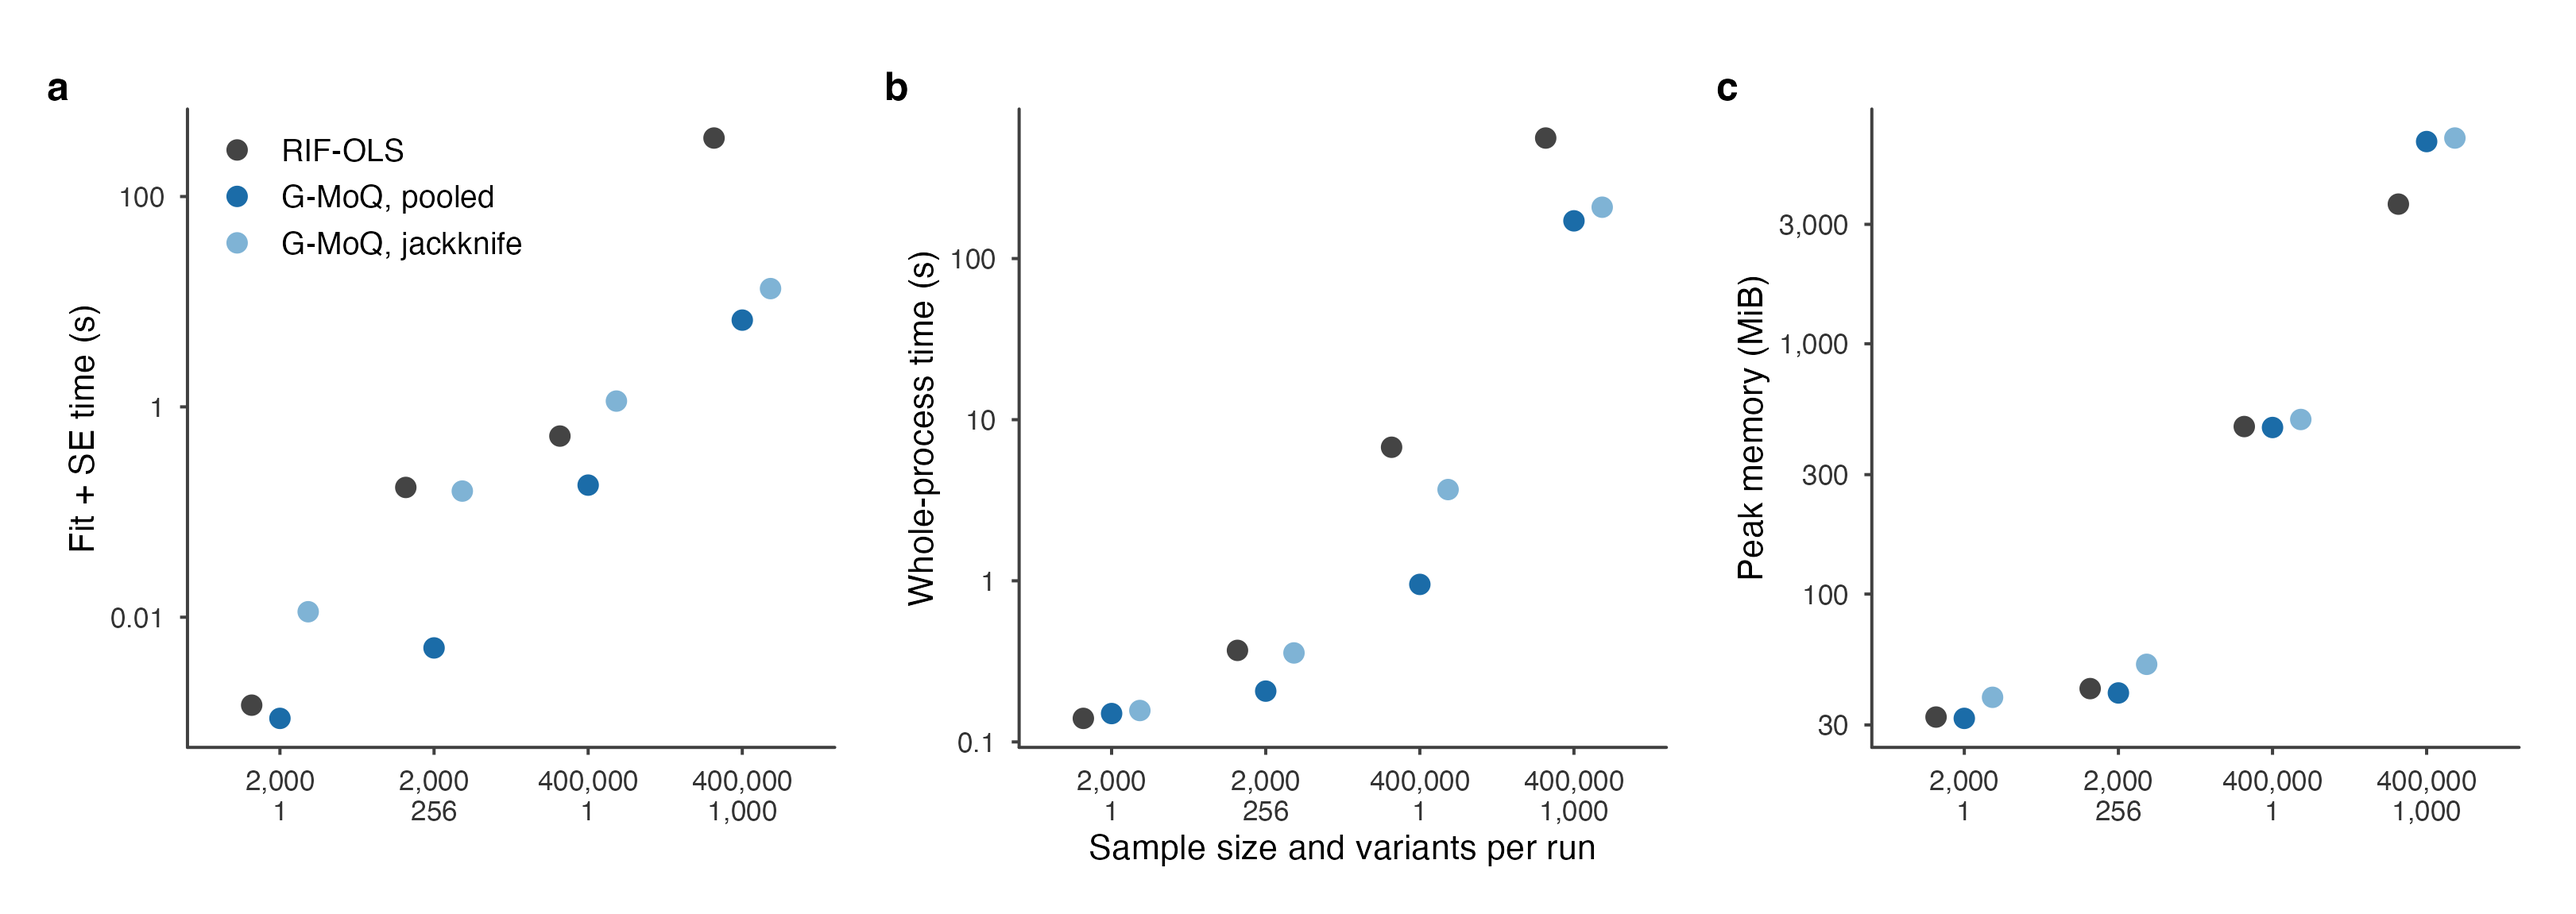
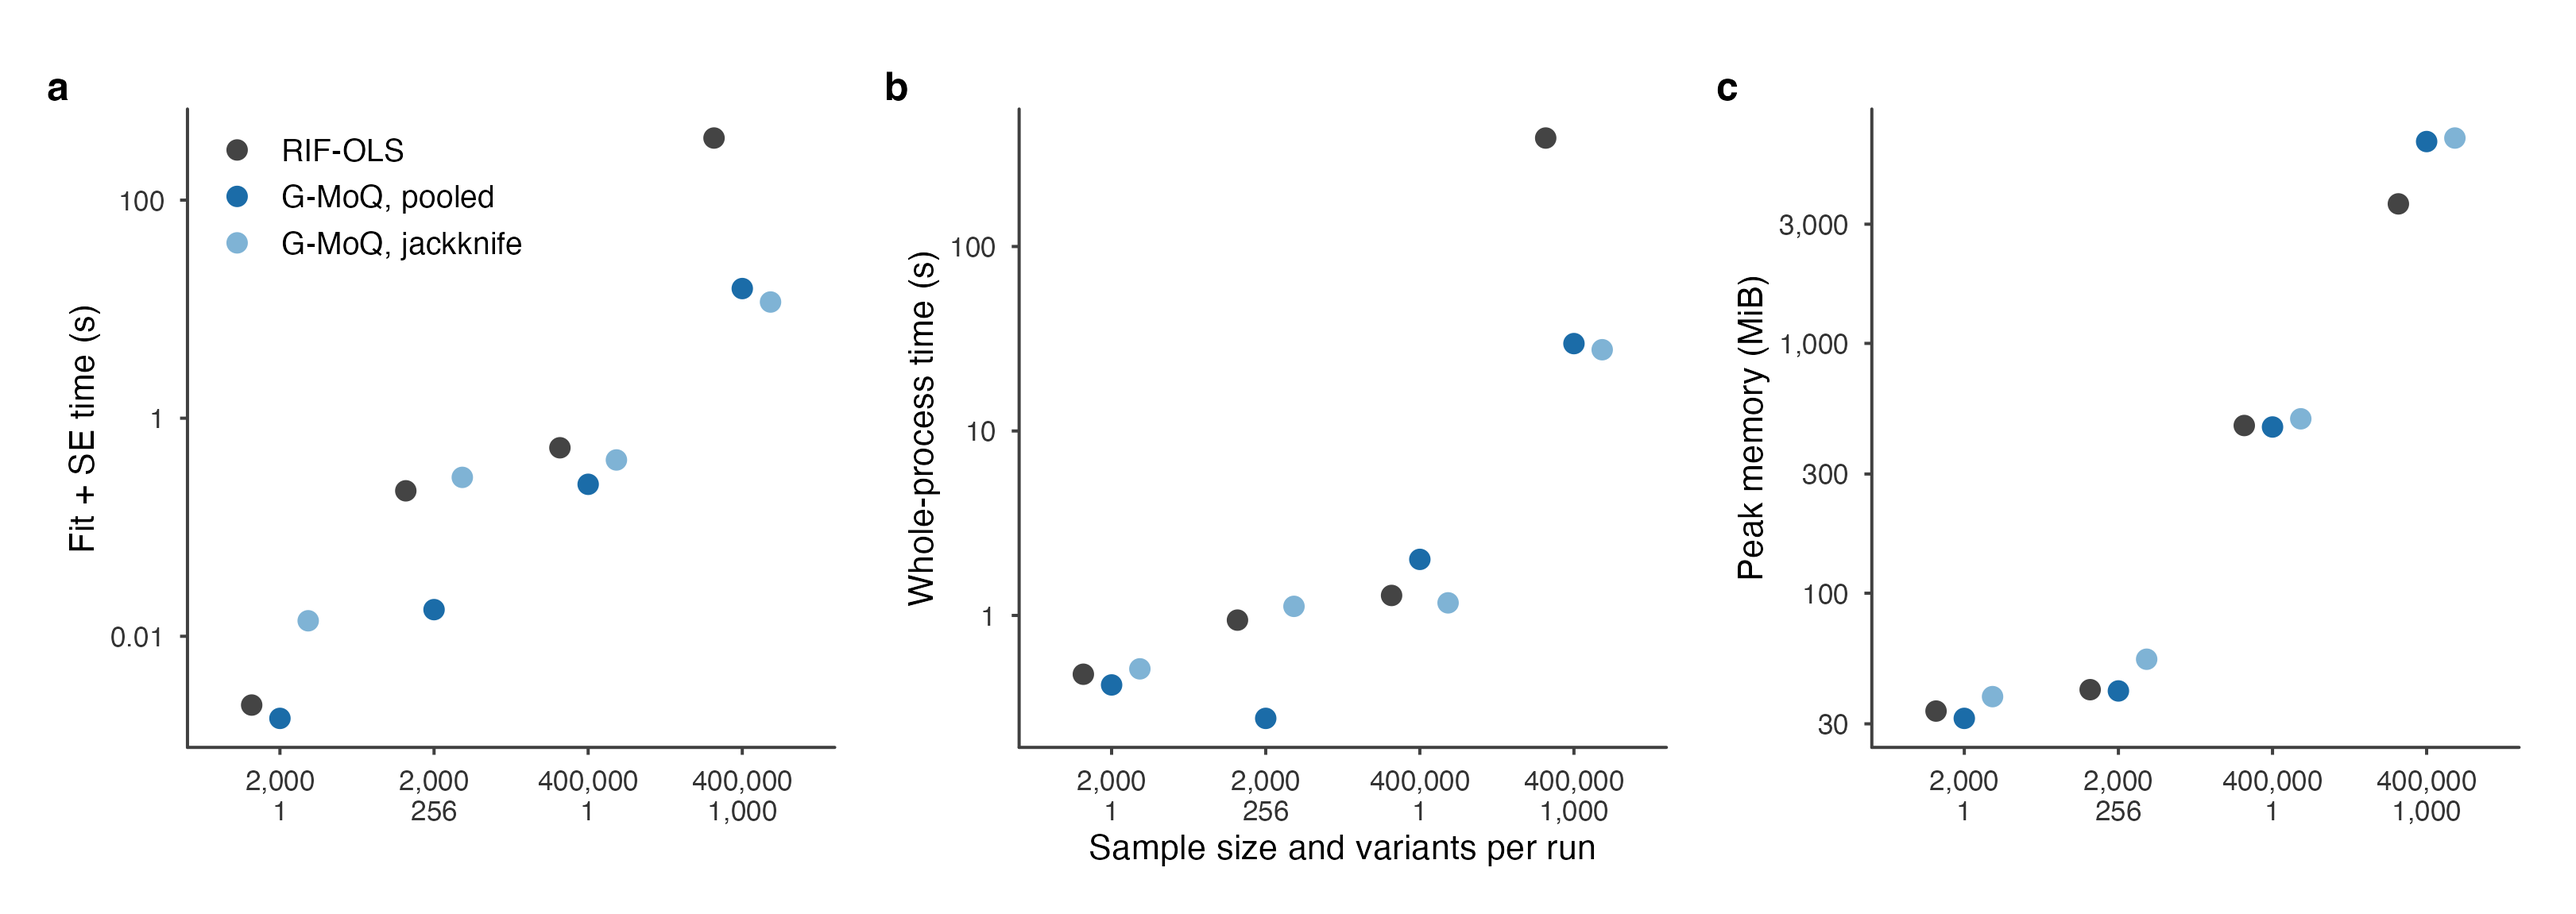
Align supplementary timing inputs and revise S13 and S15 assets

diff --git a/paper_assets/figS15_bmi_prs_interaction_caption.md b/paper_assets/figS15_bmi_prs_interaction_caption.md
@@ -1,5 +1,5 @@
 # figS15_bmi_prs_interaction
 
-Figure 6. BMI variant effects grow with polygenic background. Log BMI, 639 lead variants aligned to the BMI-increasing allele; n = 461,320. For each lead, log BMI was regressed on the variant, a polygenic score excluding that variant's chromosome, their interaction, age, sex and ten genetic principal components, with heteroscedasticity-robust standard errors. **a**, Distribution of the interaction z statistic against the standard normal null; interactions are positive at 81% of leads. **b**, Interaction against main effect per lead, with 95% confidence intervals; the red line is the common relative interaction kappa = 0.119 (95% confidence interval 0.109 to 0.130). **c**, Effect of the FTO lead rs1421085 on log BMI by decile of the polygenic score, with 95% confidence intervals; the top decile effect is 1.61 times the bottom (95% confidence interval 1.26 to 2.05). **d**, The common tilt of the lead profiles, observed and as predicted if each allele's effect grew with a modifier correlated with BMI, for four candidate modifiers. Amplification by polygenic background is one reading of these results; a convex measurement scale and environments correlated with genetic liability predict the same pattern.
+Figure S15. BMI variant effects grow with polygenic background. Log BMI, 639 lead variants aligned to the BMI-increasing allele; n = 461,320. For each lead, log BMI was regressed on the variant, a polygenic score excluding that variant's chromosome, their interaction, age, sex and ten genetic principal components, with heteroscedasticity-robust standard errors. **a**, Distribution of the interaction z statistic against the standard normal null; interactions are positive at 81% of leads. **b**, Interaction against main effect per lead, with 95% confidence intervals; the red line is the common relative interaction kappa = 0.119 (95% confidence interval 0.109 to 0.130). **c**, Effect of the FTO lead rs1421085 on log BMI by decile of the polygenic score, with 95% confidence intervals; the top decile effect is 1.61 times the bottom (95% confidence interval 1.26 to 2.05). **d**, The common tilt of the lead profiles, observed and as predicted if each allele's effect grew with a modifier correlated with BMI, for four candidate modifiers. The fitted fractions of the observed tilt are 1.53 for BMI, 0.76 for twin heritability (0.5), 0.37 for SNP heritability (0.244) and 0.14 for the measured polygenic score. Amplification by polygenic background is one reading of these results; a convex measurement scale and environments correlated with genetic liability predict the same pattern.
 
 Source data: results/05_bmi/prs_interaction.

diff --git a/paper_assets/figS13_bmi_model_scores_caption.md b/paper_assets/figS13_bmi_model_scores_caption.md
@@ -1,5 +1,5 @@
 # figS13_bmi_model_scores
 
-Figure S13. Per-lead model selection for BMI lead variants. Each of the 639 BMI lead variants was fitted on the log scale with seven models of its Stage 1 quantile-effect profile, by ordinary least squares with the pooled Stage 1 covariance, and scored by an AIC-like criterion using the full covariance (Methods). **a**, Per winning model: the number of leads it wins (Wins) and their share (%); the median AIC-like gap from the winner to the runner-up (Median gap); the percentage of its wins with a gap below 2 (Gap < 2); and the percentage of its wins whose residual lack-of-fit test rejects at P < 0.05 (Lack of fit; one-sided χ² test on 45 − k degrees of freedom, k the model's effective number of parameters; not adjusted for multiple comparisons). Top row, all leads. **b**, Distribution of the gap across the 639 leads; bars, leads per 0.1-unit bin; dashed line, a gap of 2. 98.9% of leads (632 of 639) have a runner-up within 2 units, so the winning model need not identify the mechanism (Fig. 4b); near-ties mostly pair a model with its own one-parameter extension. AIC, Akaike information criterion; BMI, body mass index; vQTL, variance quantitative trait locus.
+Figure S13. Per-lead model selection for BMI lead variants. Each of the 639 BMI lead variants was fitted on the log scale with seven models of its Stage 1 quantile-effect profile, by ordinary least squares with the pooled Stage 1 covariance, and scored by an AIC-like criterion using the full covariance (Methods). **a**, Per winning model: the number of leads it wins (Wins) and their share (%); the median AIC-like gap from the winner to the runner-up (Median gap); and the percentage of its wins with a gap below 2 (Gap < 2). Top row, all leads. **b**, Distribution of the gap across the 639 leads; bars, leads per 0.1-unit bin; dashed line, a gap of 2. 98.9% of leads (632 of 639) have a runner-up within 2 units, so the winning model need not identify the mechanism (Fig. 4b); near-ties mostly pair a model with its own one-parameter extension. AIC, Akaike information criterion; BMI, body mass index; vQTL, variance quantitative trait locus.
 
 Source data: results/05_bmi/model_scores.
